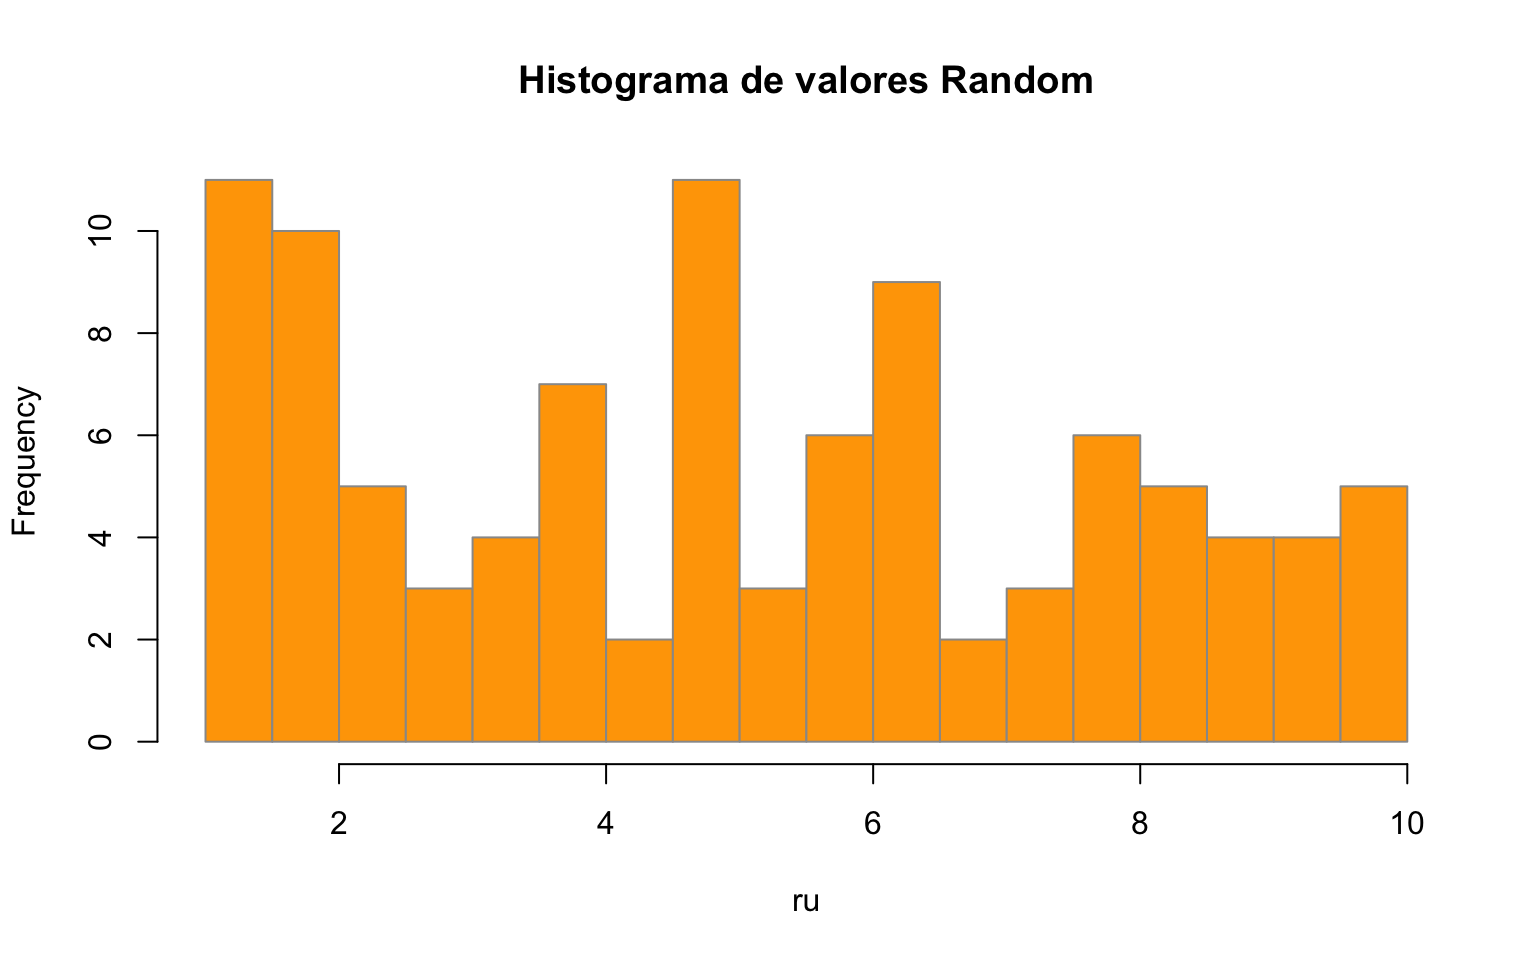
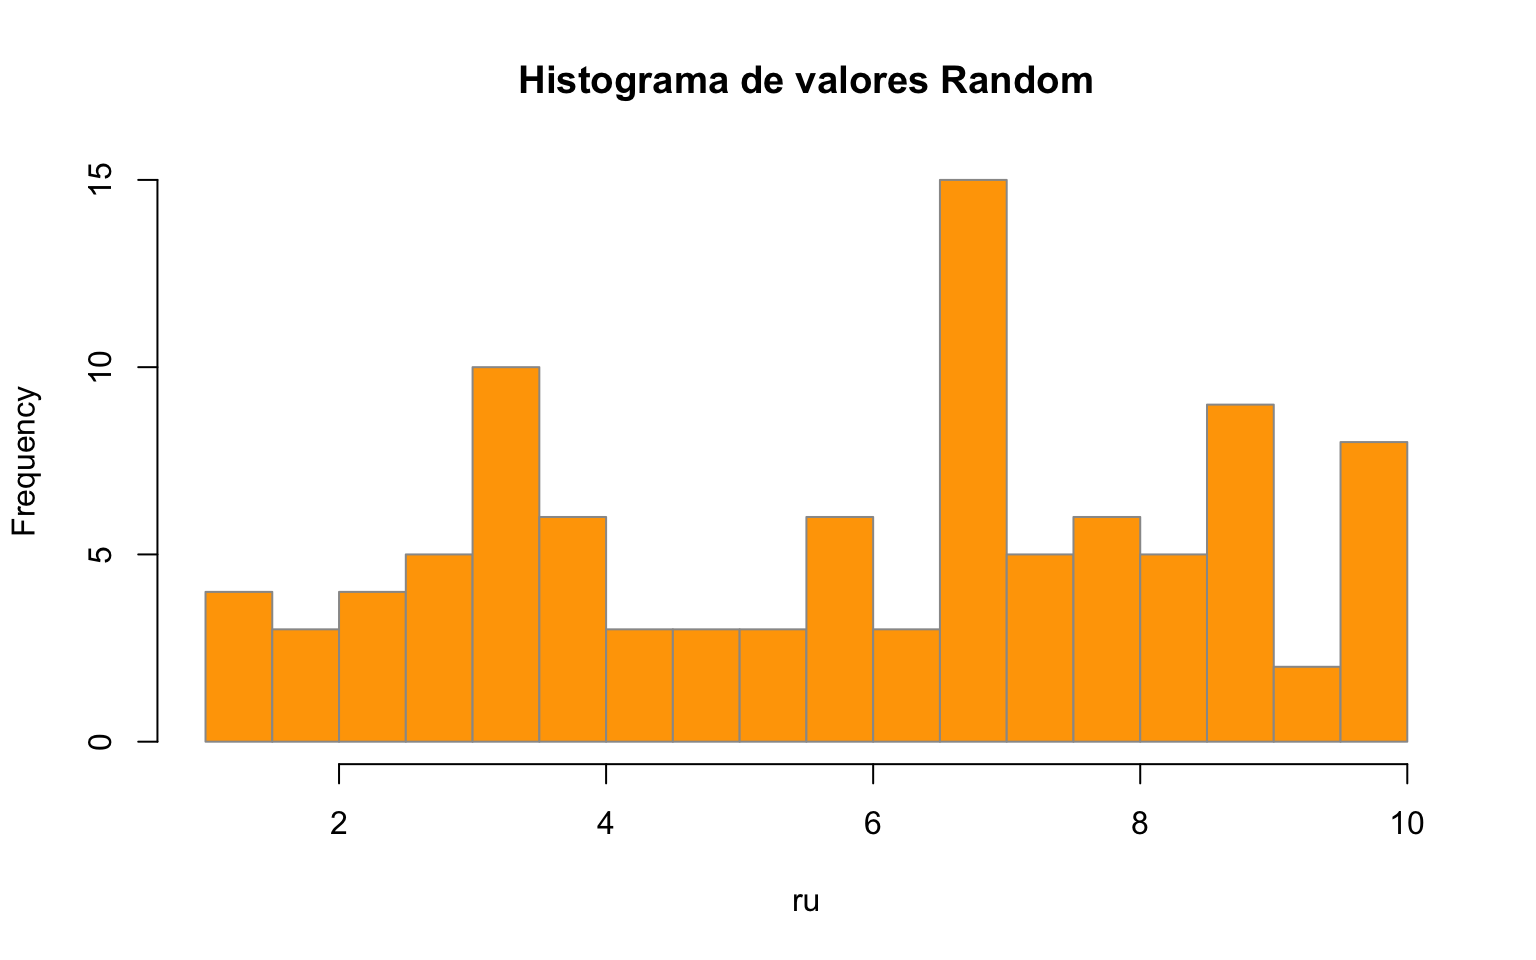
update intro and intro_r

diff --git a/_book/intro_r.html b/_book/intro_r.html
@@ -197,21 +197,22 @@ pre > code.sourceCode > span > a:first-child::before { text-decoration: underlin
     <h2 id="toc-title">Table of contents</h2>
    
   <ul>
-  <li><a href="#r-project" id="toc-r-project" class="nav-link active" data-scroll-target="#r-project"><span class="header-section-number">2.1</span> R Project</a>
+  <li><a href="#motivación" id="toc-motivación" class="nav-link active" data-scroll-target="#motivación"><span class="header-section-number">2.1</span> Motivación</a></li>
+  <li><a href="#r-project" id="toc-r-project" class="nav-link" data-scroll-target="#r-project"><span class="header-section-number">2.2</span> R Project</a>
   <ul class="collapse">
-  <li><a href="#ventajas-de-utilizar-r-project" id="toc-ventajas-de-utilizar-r-project" class="nav-link" data-scroll-target="#ventajas-de-utilizar-r-project"><span class="header-section-number">2.1.1</span> Ventajas de Utilizar R Project</a></li>
+  <li><a href="#ventajas-de-utilizar-r-project" id="toc-ventajas-de-utilizar-r-project" class="nav-link" data-scroll-target="#ventajas-de-utilizar-r-project"><span class="header-section-number">2.2.1</span> Ventajas de Utilizar R Project</a></li>
   </ul></li>
-  <li><a href="#rstudio" id="toc-rstudio" class="nav-link" data-scroll-target="#rstudio"><span class="header-section-number">2.2</span> Rstudio</a>
+  <li><a href="#rstudio" id="toc-rstudio" class="nav-link" data-scroll-target="#rstudio"><span class="header-section-number">2.3</span> Rstudio</a>
   <ul class="collapse">
-  <li><a href="#librerías-en-r" id="toc-librerías-en-r" class="nav-link" data-scroll-target="#librerías-en-r"><span class="header-section-number">2.2.1</span> Librerías en R</a></li>
-  <li><a href="#ejemplo-de-instalación-de-librerías-desde-r" id="toc-ejemplo-de-instalación-de-librerías-desde-r" class="nav-link" data-scroll-target="#ejemplo-de-instalación-de-librerías-desde-r"><span class="header-section-number">2.2.2</span> Ejemplo de Instalación de Librerías desde R</a></li>
-  <li><a href="#ejemplo-de-instalación-de-librerías-desde-rstudio" id="toc-ejemplo-de-instalación-de-librerías-desde-rstudio" class="nav-link" data-scroll-target="#ejemplo-de-instalación-de-librerías-desde-rstudio"><span class="header-section-number">2.2.3</span> Ejemplo de Instalación de Librerías desde Rstudio</a></li>
+  <li><a href="#librerías-en-r" id="toc-librerías-en-r" class="nav-link" data-scroll-target="#librerías-en-r"><span class="header-section-number">2.3.1</span> Librerías en R</a></li>
+  <li><a href="#ejemplo-de-instalación-de-librerías-desde-r" id="toc-ejemplo-de-instalación-de-librerías-desde-r" class="nav-link" data-scroll-target="#ejemplo-de-instalación-de-librerías-desde-r"><span class="header-section-number">2.3.2</span> Ejemplo de Instalación de Librerías desde R</a></li>
+  <li><a href="#ejemplo-de-instalación-de-librerías-desde-rstudio" id="toc-ejemplo-de-instalación-de-librerías-desde-rstudio" class="nav-link" data-scroll-target="#ejemplo-de-instalación-de-librerías-desde-rstudio"><span class="header-section-number">2.3.3</span> Ejemplo de Instalación de Librerías desde Rstudio</a></li>
   </ul></li>
-  <li><a href="#directorios-de-trabajos" id="toc-directorios-de-trabajos" class="nav-link" data-scroll-target="#directorios-de-trabajos"><span class="header-section-number">2.3</span> Directorios de Trabajos</a>
+  <li><a href="#directorios-de-trabajos" id="toc-directorios-de-trabajos" class="nav-link" data-scroll-target="#directorios-de-trabajos"><span class="header-section-number">2.4</span> Directorios de Trabajos</a>
   <ul class="collapse">
-  <li><a href="#directorios-de-trabajo-en-rstudio" id="toc-directorios-de-trabajo-en-rstudio" class="nav-link" data-scroll-target="#directorios-de-trabajo-en-rstudio"><span class="header-section-number">2.3.1</span> Directorios de Trabajo en RStudio</a></li>
+  <li><a href="#directorios-de-trabajo-en-rstudio" id="toc-directorios-de-trabajo-en-rstudio" class="nav-link" data-scroll-target="#directorios-de-trabajo-en-rstudio"><span class="header-section-number">2.4.1</span> Directorios de Trabajo en RStudio</a></li>
   </ul></li>
-  <li><a href="#referencias" id="toc-referencias" class="nav-link" data-scroll-target="#referencias"><span class="header-section-number">2.4</span> Referencias:</a></li>
+  <li><a href="#referencias" id="toc-referencias" class="nav-link" data-scroll-target="#referencias"><span class="header-section-number">2.5</span> Referencias:</a></li>
   </ul>
 </nav>
     </div>
@@ -236,8 +237,63 @@ pre > code.sourceCode > span > a:first-child::before { text-decoration: underlin
 
 </header>
 
-<section id="r-project" class="level2 page-columns page-full" data-number="2.1">
-<h2 data-number="2.1" class="anchored" data-anchor-id="r-project"><span class="header-section-number">2.1</span> R Project</h2>
+<div class="quarto-figure quarto-figure-center">
+<figure class="figure">
+<p><img src="images/flujo_s1.png" class="img-fluid figure-img"></p>
+</figure>
+</div>
+<section id="motivación" class="level2" data-number="2.1">
+<h2 data-number="2.1" class="anchored" data-anchor-id="motivación"><span class="header-section-number">2.1</span> Motivación</h2>
+<p>En el mundo del análisis de datos espaciales, R se convierte en tu mejor aliado. Este lenguaje de programación, con su poderosa capacidad de manipulación de datos y una abundancia de paquetes especializados, te abrirá las puertas a muchas posibilidades de análisis. Al aprender R, estarás equipado para explorar, visualizar y modelar datos espaciales de manera efectiva y precisa. El dominio de R te permitirá desbloquear información valiosa a partir de datos geoespaciales, y, además, te proporcionará una ventaja competitiva en un campo en constante crecimiento. El análisis espacial con R te permitirá descubrir patrones, tomar decisiones informadas y hacer contribuciones significativas a tu labor diaria.</p>
+<div class="quarto-figure quarto-figure-center">
+<figure class="figure">
+<p><img src="images/automatizacion-de-reportes-con-r-web.jpeg" class="img-fluid figure-img"></p>
+</figure>
+</div>
+<p><strong>¿Por qué usar un lenguaje de programción para análisis espacial?</strong></p>
+<ol type="1">
+<li><dl>
+<dt>Abundancia de paquetes especializados:</dt>
+<dd>
+R cuenta con una amplia gama de paquetes diseñados específicamente para el análisis de datos espaciales, como ‘sf’, ‘sp’, ‘raster’ y ‘leaflet’. Esto facilita la implementación de técnicas espaciales sin necesidad de reinventar la rueda.
+</dd>
+</dl></li>
+<li><dl>
+<dt>Visualización avanzada:</dt>
+<dd>
+R ofrece herramientas gráficas de alta calidad para la representación visual de datos espaciales. Paquetes como ‘ggplot2’ y ‘tmap’ permiten crear mapas y gráficos personalizados con facilidad.
+</dd>
+</dl></li>
+<li><dl>
+<dt>Análisis estadístico y geoespacial integrado:</dt>
+<dd>
+R combina capacidades estadísticas sólidas con análisis espaciales. Puedes realizar análisis espaciales avanzados, como interpolación, análisis de clusters y modelado de datos geoespaciales, todo en un entorno coherente.
+</dd>
+</dl></li>
+<li><dl>
+<dt>Comunidad activa y recursos educativos:</dt>
+<dd>
+La comunidad R es activa y solidaria. Existe una amplia oferta de recursos educativos, foros y tutoriales en línea que te ayudarán a aprender y resolver problemas de análisis espacial en R.
+</dd>
+</dl></li>
+<li><dl>
+<dt>Colaboración interdisciplinaria:</dt>
+<dd>
+A medida que la ciencia de datos espaciales se integra en diversas disciplinas, dominar R te permitirá colaborar con expertos en campos como geografía, ecología, urbanismo y epidemiología, ampliando tus oportunidades de investigación.
+</dd>
+</dl></li>
+<li><dl>
+<dt>Reproducibilidad y documentación:</dt>
+<dd>
+R fomenta la reproducibilidad de tu trabajo. Puedes documentar tus análisis y visualizaciones de manera efectiva, lo que es esencial en proyectos de investigación.
+</dd>
+</dl></li>
+</ol>
+<p>En resumen, aprender R es una inversión valiosa para cualquier profesional que se dedique al análisis de datos espaciales. Te brinda las herramientas necesarias para abordar problemas complejos y contribuir al avance del conocimiento en este campo.</p>
+<p><strong>Todos los indicadores en el Centro de Inteligencia Territorial UAI se construyeron utilizando herramientas de programación.</strong></p>
+</section>
+<section id="r-project" class="level2 page-columns page-full" data-number="2.2">
+<h2 data-number="2.2" class="anchored" data-anchor-id="r-project"><span class="header-section-number">2.2</span> R Project</h2>
 <div class="quarto-figure quarto-figure-left">
 <figure class="figure">
 <p><img src="images/R_logo.png" class="img-fluid figure-img" width="100"></p>
@@ -245,8 +301,8 @@ pre > code.sourceCode > span > a:first-child::before { text-decoration: underlin
 </div>
 <p><a href="https://www.r-project.org">R Project</a> es un lenguaje programación multiparadigma (procedural, imperativo, orientado a objetos y funcional enfocado a aplicaciones estadísticas. Por estadísticas se debe entender también los campos de estudio que se basan o las utilizan como economía, finanzas, ciencia de datos, machine learning, etc.</p>
 <p>Para la instalación de seguir las instrucción indicadas en <a href="recursos.html#sec-installR"><span>Section&nbsp;A.1</span></a>.</p>
-<section id="ventajas-de-utilizar-r-project" class="level3 page-columns page-full" data-number="2.1.1">
-<h3 data-number="2.1.1" class="anchored" data-anchor-id="ventajas-de-utilizar-r-project"><span class="header-section-number">2.1.1</span> Ventajas de Utilizar R Project</h3>
+<section id="ventajas-de-utilizar-r-project" class="level3 page-columns page-full" data-number="2.2.1">
+<h3 data-number="2.2.1" class="anchored" data-anchor-id="ventajas-de-utilizar-r-project"><span class="header-section-number">2.2.1</span> Ventajas de Utilizar R Project</h3>
 <p><strong>1. R es un software libre</strong></p>
 <ul>
 <li>La libertad de ejecutar el programa como desee y con cualquier propósito</li>
@@ -274,8 +330,8 @@ pre > code.sourceCode > span > a:first-child::before { text-decoration: underlin
 </div>
 </section>
 </section>
-<section id="rstudio" class="level2" data-number="2.2">
-<h2 data-number="2.2" class="anchored" data-anchor-id="rstudio"><span class="header-section-number">2.2</span> Rstudio</h2>
+<section id="rstudio" class="level2" data-number="2.3">
+<h2 data-number="2.3" class="anchored" data-anchor-id="rstudio"><span class="header-section-number">2.3</span> Rstudio</h2>
 <div class="quarto-figure quarto-figure-left">
 <figure class="figure">
 <p><img src="images/Logo-RStudio.png" class="img-fluid figure-img" width="100"></p>
@@ -286,8 +342,8 @@ pre > code.sourceCode > span > a:first-child::before { text-decoration: underlin
 <center>
 <img src="images/rstudio-editor.svg" class="img-fluid" style="width:90.0%">
 </center>
-<section id="librerías-en-r" class="level3" data-number="2.2.1">
-<h3 data-number="2.2.1" class="anchored" data-anchor-id="librerías-en-r"><span class="header-section-number">2.2.1</span> Librerías en R</h3>
+<section id="librerías-en-r" class="level3" data-number="2.3.1">
+<h3 data-number="2.3.1" class="anchored" data-anchor-id="librerías-en-r"><span class="header-section-number">2.3.1</span> Librerías en R</h3>
 <p>En R, una librería es un conjunto de funciones, datos y recursos adicionales que se agrupan para facilitar tareas específicas de programación, análisis de datos o visualización. Estas librerías son paquetes de software que amplían las funcionalidades básicas de R y permiten a los usuarios realizar tareas más avanzadas de manera eficiente.</p>
 <p>Existen una gran variedad de librerías disponibles en R, cada una diseñada para abordar un campo o área de aplicación particular. A continuación, mencionaré algunos de los campos más comunes en los que se utilizan las librerías de R:</p>
 <dl>
@@ -310,16 +366,16 @@ R es conocido por su capacidad para generar gráficos y visualizaciones de datos
 </dl>
 <p>Estos son solo algunos ejemplos de los campos en los que se utilizan las librerías de R. Es importante destacar que la comunidad de R es muy activa y constantemente se desarrollan nuevas librerías para abordar diferentes necesidades en diversos campos de aplicación. El uso de estas librerías no solo ahorra tiempo y esfuerzo, sino que también permite a los programadores y analistas aprovechar las mejores prácticas y métodos establecidos en sus respectivos campos.</p>
 </section>
-<section id="ejemplo-de-instalación-de-librerías-desde-r" class="level3" data-number="2.2.2">
-<h3 data-number="2.2.2" class="anchored" data-anchor-id="ejemplo-de-instalación-de-librerías-desde-r"><span class="header-section-number">2.2.2</span> Ejemplo de Instalación de Librerías desde R</h3>
+<section id="ejemplo-de-instalación-de-librerías-desde-r" class="level3" data-number="2.3.2">
+<h3 data-number="2.3.2" class="anchored" data-anchor-id="ejemplo-de-instalación-de-librerías-desde-r"><span class="header-section-number">2.3.2</span> Ejemplo de Instalación de Librerías desde R</h3>
 <p>Podemos instalar paquetes usando la función <code>install.packages()</code>, dando como argumento el nombre del paquete que deseamos instalar, entre comillas.</p>
 <p>Para instalar librerías se puede hacer directamente desde la consola de RStudio, por ejemplo:</p>
 <div class="cell">
 <div class="sourceCode cell-code" id="cb1"><pre class="sourceCode r code-with-copy"><code class="sourceCode r"><span id="cb1-1"><a href="#cb1-1" aria-hidden="true" tabindex="-1"></a><span class="fu">install.packages</span>(<span class="st">"dplyr"</span>) <span class="co"># Se puede instalar más de una librería a la vez</span></span></code><button title="Copy to Clipboard" class="code-copy-button"><i class="bi"></i></button></pre></div>
 </div>
 </section>
-<section id="ejemplo-de-instalación-de-librerías-desde-rstudio" class="level3" data-number="2.2.3">
-<h3 data-number="2.2.3" class="anchored" data-anchor-id="ejemplo-de-instalación-de-librerías-desde-rstudio"><span class="header-section-number">2.2.3</span> Ejemplo de Instalación de Librerías desde Rstudio</h3>
+<section id="ejemplo-de-instalación-de-librerías-desde-rstudio" class="level3" data-number="2.3.3">
+<h3 data-number="2.3.3" class="anchored" data-anchor-id="ejemplo-de-instalación-de-librerías-desde-rstudio"><span class="header-section-number">2.3.3</span> Ejemplo de Instalación de Librerías desde Rstudio</h3>
 <p>También se pude instalar librerías del Panel “Packages”</p>
 <center>
 <img src="images/install_pack2.png" class="img-fluid" style="width:90.0%">
@@ -330,8 +386,8 @@ R es conocido por su capacidad para generar gráficos y visualizaciones de datos
 </center>
 </section>
 </section>
-<section id="directorios-de-trabajos" class="level2" data-number="2.3">
-<h2 data-number="2.3" class="anchored" data-anchor-id="directorios-de-trabajos"><span class="header-section-number">2.3</span> Directorios de Trabajos</h2>
+<section id="directorios-de-trabajos" class="level2" data-number="2.4">
+<h2 data-number="2.4" class="anchored" data-anchor-id="directorios-de-trabajos"><span class="header-section-number">2.4</span> Directorios de Trabajos</h2>
 <p>Un directorio de trabajo, también conocido como carpeta de trabajo, es una ubicación específica en un sistema de archivos donde se almacenan y organizan los archivos relacionados con un proyecto o una tarea determinada. Estos directorios son esenciales para mantener un entorno de desarrollo ordenado y estructurado. Aquí tienes algunas razones por las que son importantes:</p>
 <dl>
 <dt>Organización:</dt>
@@ -347,8 +403,8 @@ Al utilizar directorios de trabajo adecuados, es más sencillo realizar tareas d
 Los directorios de trabajo facilitan la portabilidad de un proyecto. Si necesitas mover o copiar tu proyecto a otro lugar, simplemente tendrás que llevar el directorio principal y todos los subdirectorios y archivos asociados estarán incluidos. Esto garantiza que no falten archivos esenciales y que el proyecto se pueda ejecutar sin problemas en un nuevo entorno.
 </dd>
 </dl>
-<section id="directorios-de-trabajo-en-rstudio" class="level3" data-number="2.3.1">
-<h3 data-number="2.3.1" class="anchored" data-anchor-id="directorios-de-trabajo-en-rstudio"><span class="header-section-number">2.3.1</span> Directorios de Trabajo en RStudio</h3>
+<section id="directorios-de-trabajo-en-rstudio" class="level3" data-number="2.4.1">
+<h3 data-number="2.4.1" class="anchored" data-anchor-id="directorios-de-trabajo-en-rstudio"><span class="header-section-number">2.4.1</span> Directorios de Trabajo en RStudio</h3>
 <p>Definir directorio de Trabajo con RStudio se puede hacer de varias formas:</p>
 <ol type="1">
 <li>Desde Rstudio.</li>
@@ -377,8 +433,8 @@ Los directorios de trabajo facilitan la portabilidad de un proyecto. Si necesita
 </div>
 </section>
 </section>
-<section id="referencias" class="level2" data-number="2.4">
-<h2 data-number="2.4" class="anchored" data-anchor-id="referencias"><span class="header-section-number">2.4</span> Referencias:</h2>
+<section id="referencias" class="level2" data-number="2.5">
+<h2 data-number="2.5" class="anchored" data-anchor-id="referencias"><span class="header-section-number">2.5</span> Referencias:</h2>
 <ul>
 <li><a href="https://es.r4ds.hadley.nz">R para Ciencia de Datos</a></li>
 <li><a href="https://bookdown.org/gboccardo/manual-ED-UCH/">RStudio para Estadística Descriptiva en Ciencias Sociales</a></li>

diff --git a/_book/variables.html b/_book/variables.html
@@ -287,19 +287,19 @@ pre > code.sourceCode > span > a:first-child::before { text-decoration: underlin
 <div class="sourceCode cell-code" id="cb7"><pre class="sourceCode r code-with-copy"><code class="sourceCode r"><span id="cb7-1"><a href="#cb7-1" aria-hidden="true" tabindex="-1"></a>ru <span class="ot">&lt;-</span> <span class="fu">runif</span>(<span class="at">n =</span> <span class="dv">100</span>, <span class="at">min =</span> <span class="dv">1</span>, <span class="at">max =</span> <span class="dv">10</span>)</span>
 <span id="cb7-2"><a href="#cb7-2" aria-hidden="true" tabindex="-1"></a>ru</span></code><button title="Copy to Clipboard" class="code-copy-button"><i class="bi"></i></button></pre></div>
 <div class="cell-output cell-output-stdout">
-<pre><code>  [1] 4.672630 1.715848 6.253832 8.989222 4.905306 1.168922 6.000016 4.749021
-  [9] 4.689122 5.555165 2.263861 9.158894 9.564051 5.808544 1.669417 3.101999
- [17] 6.031867 1.435734 5.560187 3.777624 1.583332 8.257824 7.880233 8.460775
- [25] 6.254897 1.794247 6.336582 2.104955 6.905763 7.042682 4.549731 4.246006
- [33] 8.399955 4.628103 1.923345 3.287246 1.016143 1.666180 1.098699 2.078648
- [41] 9.732682 9.777835 1.259913 4.037370 7.826656 2.733231 3.054646 3.874203
- [49] 7.921908 3.857886 5.913157 6.070053 1.442919 6.434035 7.497445 5.721259
- [57] 5.462743 5.360082 7.759178 2.501779 1.227731 2.582311 1.756525 8.430630
- [65] 4.857978 1.238373 8.671728 8.771618 8.174462 4.612747 9.970147 3.768831
- [73] 2.195611 3.861498 6.204939 1.370611 7.940094 3.751692 7.091218 2.481114
- [81] 1.404307 3.734179 1.992019 9.749127 1.875022 9.339253 6.536643 4.514581
- [89] 5.982928 9.494073 1.350213 3.193731 1.907570 6.494208 9.179793 8.884318
- [97] 5.111666 4.866460 4.735796 7.977907</code></pre>
+<pre><code>  [1] 8.873382 5.924202 6.990330 3.723808 2.247528 7.222190 9.818908 4.109516
+  [9] 1.716217 7.743585 1.333282 7.261746 8.111388 8.917983 9.876979 7.363573
+ [17] 9.378688 2.933592 5.917050 9.979300 2.256665 7.749927 6.643319 5.340431
+ [25] 2.720898 9.889129 2.576709 8.350499 8.300676 6.631911 5.817270 8.998124
+ [33] 8.247770 6.153123 8.824865 2.394018 3.842569 8.867489 8.591058 5.744525
+ [41] 2.846347 9.505246 4.098337 3.492313 3.637742 6.715824 6.738327 6.866040
+ [49] 3.169666 6.598879 3.736033 9.088668 8.561965 2.185771 9.705341 3.060912
+ [57] 6.510760 7.887764 6.596751 9.866681 5.202845 6.355982 6.775675 3.125701
+ [65] 3.947709 6.561947 8.556365 3.381579 5.929180 7.147177 5.512887 7.529490
+ [73] 4.876282 1.758539 1.453846 7.583032 3.393232 3.878882 5.312139 6.100696
+ [81] 3.261080 9.755061 3.324998 4.689677 8.959588 1.221156 6.634492 4.107228
+ [89] 6.868619 6.783849 2.922903 7.357543 3.499427 1.300383 7.773963 1.739864
+ [97] 8.320008 3.461617 6.860241 4.920166</code></pre>
 </div>
 </div>
 <div class="cell" data-layout-align="center">
@@ -318,7 +318,7 @@ pre > code.sourceCode > span > a:first-child::before { text-decoration: underlin
 <div class="cell">
 <div class="sourceCode cell-code" id="cb10"><pre class="sourceCode r code-with-copy"><code class="sourceCode r"><span id="cb10-1"><a href="#cb10-1" aria-hidden="true" tabindex="-1"></a><span class="fu">sample.int</span>(<span class="at">n =</span> <span class="dv">6</span>, <span class="at">size =</span> <span class="dv">10</span>, <span class="at">replace =</span> T)</span></code><button title="Copy to Clipboard" class="code-copy-button"><i class="bi"></i></button></pre></div>
 <div class="cell-output cell-output-stdout">
-<pre><code> [1] 4 6 4 2 1 4 4 4 4 2</code></pre>
+<pre><code> [1] 1 4 3 5 2 6 1 3 3 5</code></pre>
 </div>
 </div>
 </section>

diff --git a/_book/control_r.html b/_book/control_r.html
@@ -373,10 +373,10 @@ pre > code.sourceCode > span > a:first-child::before { text-decoration: underlin
 <span id="cb17-6"><a href="#cb17-6" aria-hidden="true" tabindex="-1"></a>  <span class="fu">print</span>(promedio)</span>
 <span id="cb17-7"><a href="#cb17-7" aria-hidden="true" tabindex="-1"></a>}</span></code><button title="Copy to Clipboard" class="code-copy-button"><i class="bi"></i></button></pre></div>
 <div class="cell-output cell-output-stdout">
-<pre><code>[1] 0.1543775
-[1] 0.3247422
-[1] -0.1206805
-[1] 0.133289</code></pre>
+<pre><code>[1] -0.2296258
+[1] 0.1970461
+[1] -0.3356992
+[1] 0.1736684</code></pre>
 </div>
 </div>
 </section>

diff --git a/_book/index.html b/_book/index.html
@@ -240,6 +240,11 @@ ul.task-list li input[type="checkbox"] {
 </section>
 <section id="contenidos" class="level2" data-number="1.3">
 <h2 data-number="1.3" class="anchored" data-anchor-id="contenidos"><span class="header-section-number">1.3</span> Contenidos</h2>
+<div class="quarto-figure quarto-figure-center">
+<figure class="figure">
+<p><img src="images/flujo_general.png" class="img-fluid figure-img"></p>
+</figure>
+</div>
 <ol type="1">
 <li>Introducción a R y Lectura de Datos</li>
 <li>Manipulación de Datos Espaciales</li>
